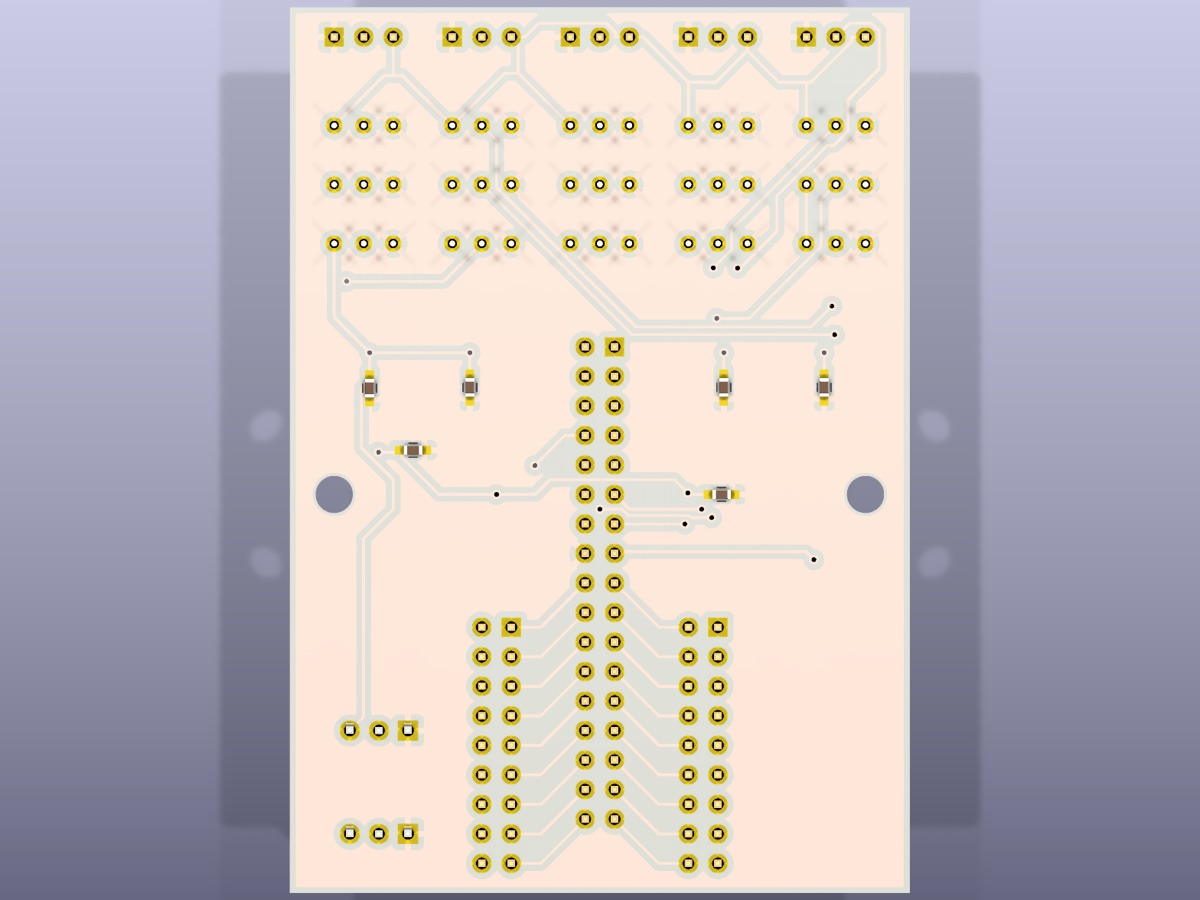
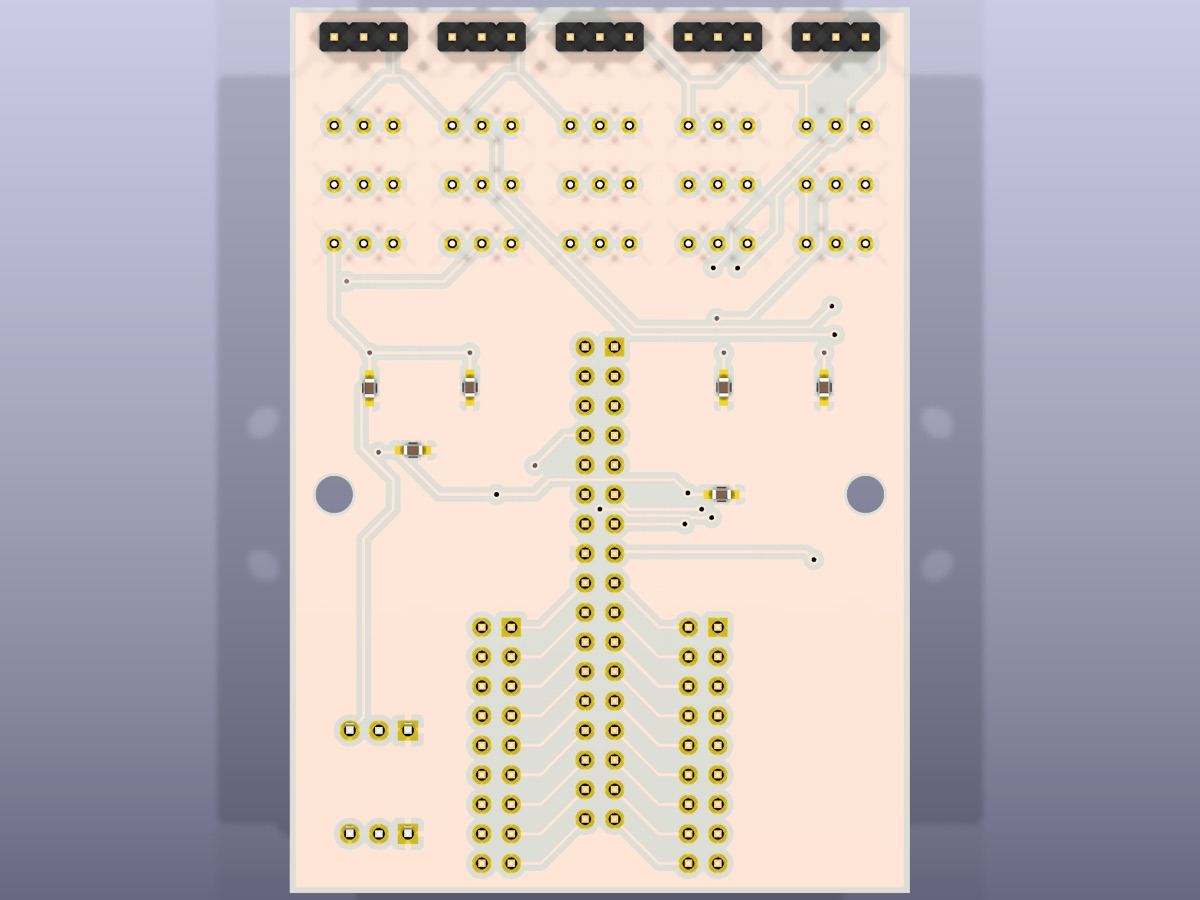
Show the note-board sensor headers on the back side in 3D
J1-J5 are straight male headers soldered on the back of the note board, as built; the footprints
are on the front, so only the 3D model is flipped. Build guide mentions the arched cable run.

Changed region(s): [[0.2467, 0.0, 0.74, 0.0933]]

diff --git a/hardware/v1/tools/assign_3d_models.py b/hardware/v1/tools/assign_3d_models.py
@@ -23,8 +23,10 @@ MODELS = {
         "Connector_IDC.3dshapes/IDC-Header_2x17_P2.54mm_Vertical.step", (0, 0, 0), (0, 0, -90)),
     "Pin_Headers:Pin_Header_Straight_1x02_Pitch2.54mm": (
         "Connector_PinHeader_2.54mm.3dshapes/PinHeader_1x02_P2.54mm_Vertical.step", (0, 0, 0), (0, 0, 0)),
+    # Note board J1-J5 (sensor cables): the footprint is on the front, but the headers are soldered
+    # on the BACK of the board, so the model is flipped under the 1.6 mm board.
     "Pin_Headers:Pin_Header_Straight_1x03_Pitch2.54mm": (
-        "Connector_PinHeader_2.54mm.3dshapes/PinHeader_1x03_P2.54mm_Vertical.step", (0, 0, 0), (0, 0, 0)),
+        "Connector_PinHeader_2.54mm.3dshapes/PinHeader_1x03_P2.54mm_Vertical.step", (0, 0, -1.6), (0, 180, 0)),
     "Pin_Headers:Pin_Header_Straight_2x09_Pitch2.54mm": (
         "Connector_PinHeader_2.54mm.3dshapes/PinHeader_2x09_P2.54mm_Vertical.step", (0, 0, 0), (0, 0, 0)),
     "Socket_Strips:Socket_Strip_Straight_1x03_Pitch2.54mm": (

diff --git a/docs/v1/build-guide.md b/docs/v1/build-guide.md
@@ -68,7 +68,8 @@ bottom, groups 10–18. Group 1 is the lowest part of the keyboard.
 - Each sensor board connects to its note board with a short female–female 3-wire Dupont cable, so
   both ends have male pins: a straight 1×3 header on the back of the note board, and a right-angle
   1×3 header on the sensor board, with the pins pointing off the end of the board, parallel to it.
-  I cut the 3-pin pieces from longer header strips (tedious). Before soldering these, check the mechanical placement on *your*
+  I cut the 3-pin pieces from longer header strips (tedious). The cables run in an arc from the back
+  of the note board to the end of the sensor board (see the photos below). Before soldering these, check the mechanical placement on *your*
   action: whether you need straight or angled connectors, and on which side, depends on how the
   cables can run. I spent a lot of time on this; the photos show where I ended up.
 - The action's brackets split the hammers into groups, so the sensors are not evenly spaced and
